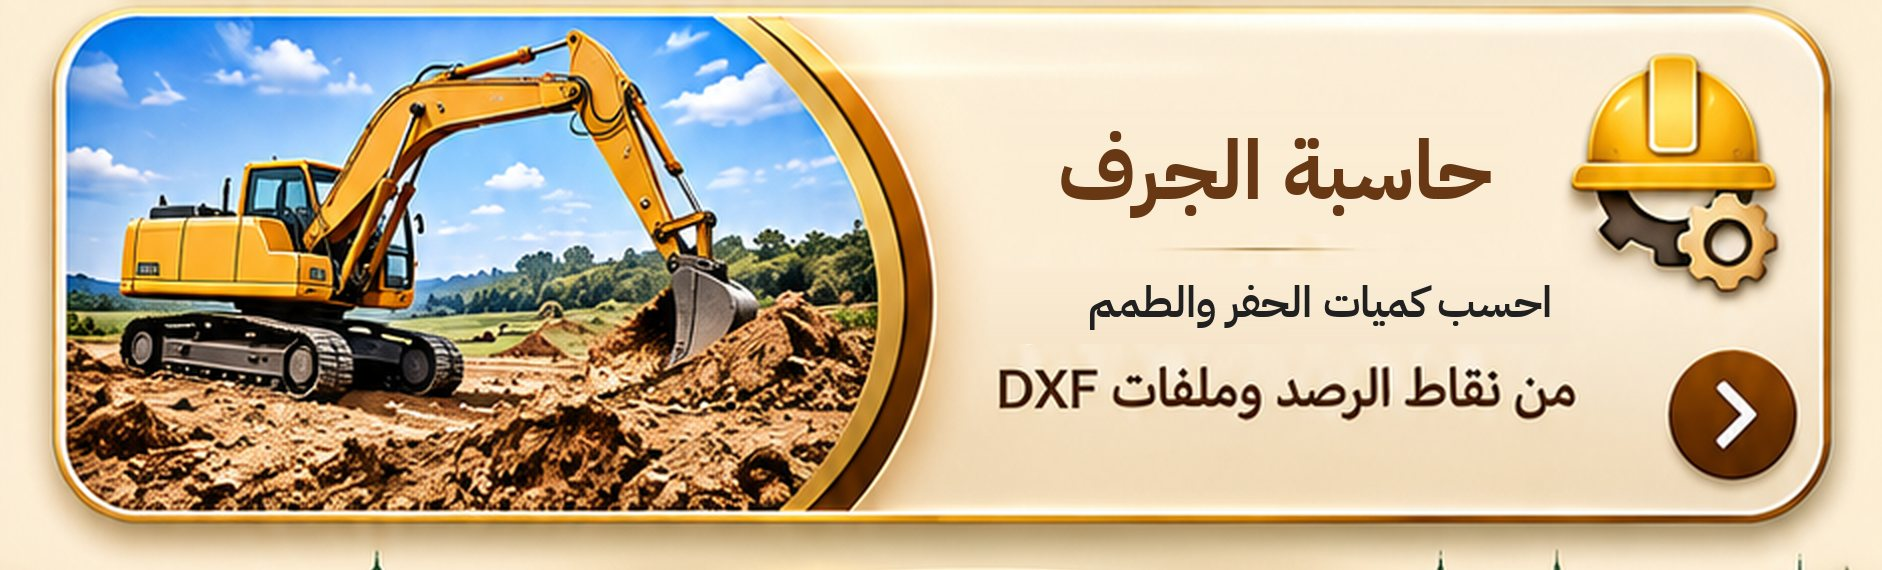
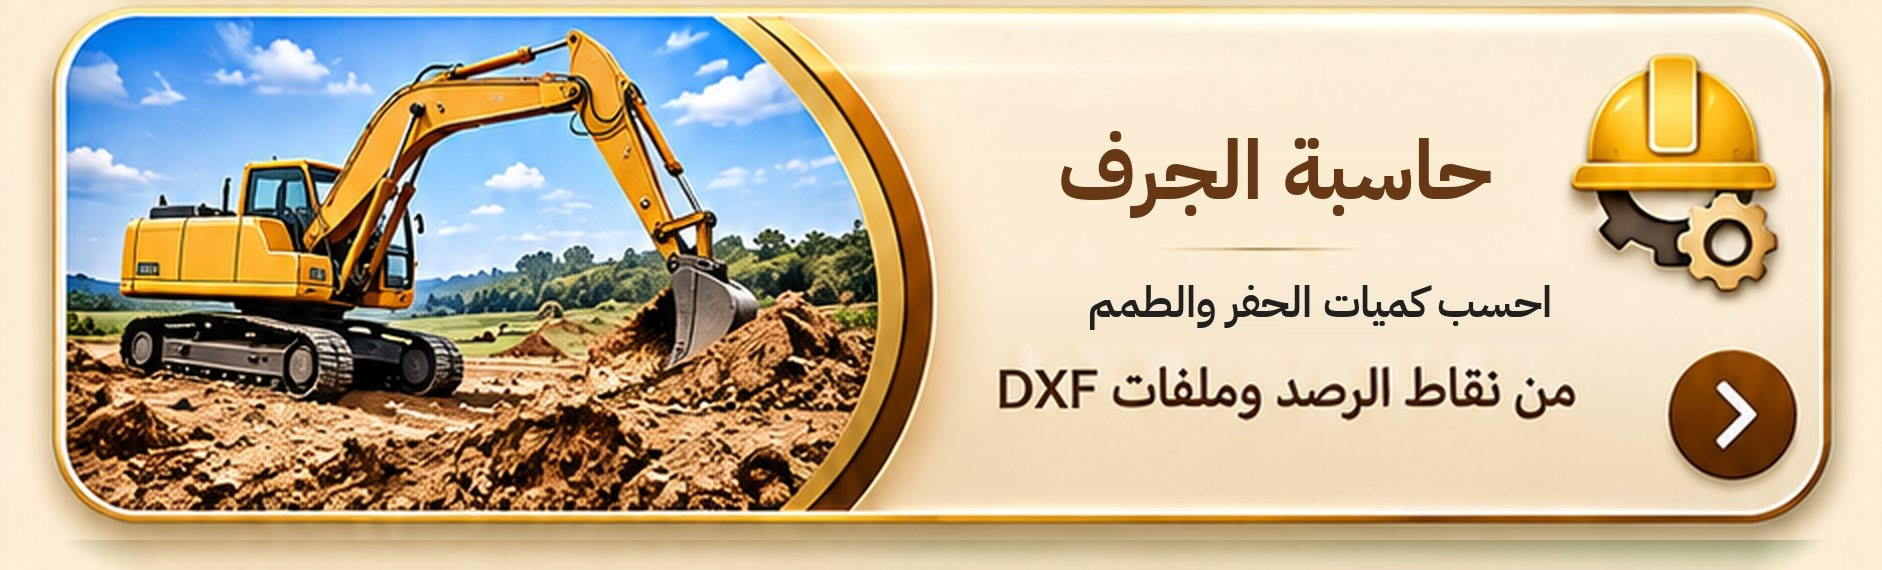
Add GovMap coordinates tool (ITM X/Y -> GovMap with blocks and Oslo layers)
Claude-Session: https://claude.ai/code/session_01AkLSPwRHM58vdM6rzVeHiX

Changed region(s): [[0.678, 0.9246, 0.9862, 1.0], [0.0616, 0.9246, 0.2465, 1.0]]

diff --git a/app/src/main/assets/govmap/index.html b/app/src/main/assets/govmap/index.html
@@ -1,0 +1,159 @@
+<!doctype html>
+<html lang="ar" dir="rtl" data-tool="govmap">
+<head>
+<meta charset="utf-8">
+<meta name="viewport" content="width=device-width,initial-scale=1,viewport-fit=cover">
+<title>إحداثيات GovMap</title>
+<link rel="stylesheet" href="../ifraz/fonts.css">
+<link rel="stylesheet" href="../theme.css">
+<style>
+*{box-sizing:border-box}
+body{margin:0;font:16px/1.6 "IBM Plex Sans Arabic",Tahoma,sans-serif}
+main{max-width:560px;margin:0 auto;padding:14px 16px 40px}
+h1{font:700 30px/1.3 var(--am-title);color:var(--am-green-800);margin:8px 0 2px}
+.lead{color:var(--am-muted);margin:0 0 14px;font-size:15px}
+.card{background:var(--am-card);border:1.5px solid var(--am-line);border-radius:18px;padding:16px;box-shadow:0 10px 22px -16px rgba(8,42,27,.5),inset 0 1px 0 #fff;margin-bottom:14px}
+.xy{display:grid;grid-template-columns:1fr 1fr;gap:12px}
+label.f{display:flex;flex-direction:column;gap:6px;font-weight:700;color:var(--am-green-800);font-size:15px}
+label.f small{font-weight:500;color:var(--am-muted)}
+input,select{font:500 20px "IBM Plex Mono","IBM Plex Sans Arabic",monospace;padding:12px 12px;border:1.5px solid var(--am-line);border-radius:14px;background:#fffdf6;color:var(--am-ink);width:100%;min-width:0}
+select,.set input{font:500 16px "IBM Plex Sans Arabic",Tahoma,sans-serif}
+input:focus,select:focus{outline:2px solid var(--am-gold-500);outline-offset:1px}
+input[dir=ltr]{text-align:left}
+.go{display:block;width:100%;margin-top:16px;border:0;border-radius:999px;padding:14px;font:700 20px "IBM Plex Sans Arabic",Tahoma,sans-serif;color:#fff;background:var(--am-btn);box-shadow:0 0 0 1.5px var(--am-gold-400),0 8px 16px -8px rgba(8,42,27,.7);cursor:pointer}
+.go:active{transform:scale(.98)}
+.row{display:flex;gap:8px;margin-top:10px;flex-wrap:wrap}
+.sm{flex:1;border:1.5px solid var(--am-gold-500);border-radius:999px;padding:9px 12px;background:#fffaf0;color:var(--am-green-800);font:700 14px "IBM Plex Sans Arabic",Tahoma,sans-serif;cursor:pointer;white-space:nowrap}
+.msg{margin:10px 0 0;padding:8px 12px;border-radius:12px;font-size:14px;display:none}
+.msg.on{display:block}.msg.warn{background:#fbf0d2;border:1px solid var(--am-gold-500);color:#7a4e00}.msg.ok{background:#e3efe2;border:1px solid #9cc5a5;color:#1e6b4a}
+details summary{cursor:pointer;font-weight:700;color:var(--am-green-800);list-style:none;display:flex;align-items:center;gap:8px}
+details summary::before{content:"◀";font-size:12px;transition:transform .15s}
+details[open] summary::before{transform:rotate(-90deg)}
+.set{display:grid;gap:12px;margin-top:12px}
+.set .two{display:grid;grid-template-columns:1fr 1fr;gap:12px}
+.seg{display:flex;border:1.5px solid var(--am-line);border-radius:999px;overflow:hidden}
+.seg label{flex:1;text-align:center;padding:9px 6px;font-weight:700;font-size:14px;cursor:pointer;color:var(--am-green-800)}
+.seg input{position:absolute;opacity:0;width:1px;height:1px}
+.seg label:has(input:checked){background:var(--am-btn);color:#fff}
+h2{font:700 18px var(--am-title);color:var(--am-green-800);margin:0 0 8px}
+.hist{display:flex;flex-direction:column;gap:8px}
+.h{display:flex;align-items:center;gap:8px;border:1px solid var(--am-line);border-radius:14px;background:#fffdf6;padding:6px 6px 6px 10px}
+.h button.use{flex:1;text-align:right;border:0;background:none;font:500 15px "IBM Plex Mono",monospace;color:var(--am-ink);cursor:pointer;direction:ltr;display:flex;justify-content:flex-end;gap:12px;padding:6px}
+.h .del{border:0;background:#f3ead2;color:#8a3b12;border-radius:50%;width:32px;height:32px;cursor:pointer;flex:none}
+.empty{color:var(--am-muted);font-size:14px;margin:0}
+.note{color:var(--am-muted);font-size:13px;margin:6px 0 0}
+</style>
+</head>
+<body>
+<div class="am-bar"><span class="am-title"><img src="../img/t-govmap.png" alt=""><b>إحداثيات GovMap</b></span><a class="am-home" href="../home.html"><svg viewBox="0 0 24 24" fill="currentColor" aria-hidden="true"><path d="M12 3 2.5 11h2.7v9.5h5.3v-6h3v6h5.3V11h2.7z"/></svg>الرئيسية</a></div>
+<div class="am-spacer" aria-hidden="true"></div>
+<main>
+  <h1>إحداثيات GovMap</h1>
+  <p class="lead">أدخل الإحداثيات بنظام ITM (الشبكة الإسرائيلية الجديدة)، ويفتح الموقع على GovMap مع حدود الأحواض ومناطق أوسلو.</p>
+
+  <section class="card">
+    <div class="xy">
+      <label class="f"><span>Y <small>(شمال)</small></span><input id="y" dir="ltr" inputmode="decimal" autocomplete="off" placeholder="677550"></label>
+      <label class="f"><span>X <small>(شرق)</small></span><input id="x" dir="ltr" inputmode="decimal" autocomplete="off" placeholder="199804"></label>
+    </div>
+    <button class="go" id="go" type="button">اعرض الموقع</button>
+    <div class="row">
+      <button class="sm" id="copy" type="button">نسخ الرابط</button>
+      <button class="sm" id="paste" type="button">لصق X,Y</button>
+      <button class="sm" id="clear" type="button">مسح</button>
+    </div>
+    <p class="msg" id="msg" role="status"></p>
+  </section>
+
+  <section class="card">
+    <details id="setBox">
+      <summary>الإعدادات</summary>
+      <div class="set">
+        <div class="two">
+          <label class="f"><span>مستوى التكبير <small>(0 بعيد – 10 قريب)</small></span><select id="z"></select></label>
+          <label class="f"><span>الخلفية <small>(b)</small></span><input id="b" dir="ltr" inputmode="numeric" value="1"></label>
+        </div>
+        <label class="f"><span>الطبقات <small>(الأحواض ومناطق أوسلو أ/ب/ج)</small></span><input id="lay" dir="ltr" value="189,188,181"></label>
+        <div><div class="f" style="margin-bottom:6px">افتح الخارطة</div>
+          <div class="seg"><label><input type="radio" name="open" value="app" checked>داخل التطبيق</label><label><input type="radio" name="open" value="ext">في المتصفح</label></div></div>
+        <button class="sm" id="reset" type="button">إرجاع الإعدادات الأصلية</button>
+      </div>
+    </details>
+  </section>
+
+  <section class="card">
+    <h2>آخر النقاط</h2>
+    <div class="hist" id="hist"></div>
+    <p class="note">اضغط على نقطة لإعادة عرضها. تُحفظ آخر 20 نقطة على هذا الجهاز.</p>
+  </section>
+</main>
+<script>
+const $ = s => document.querySelector(s);
+const KEY = "govmap-xy-v1", DEF = { z: 9, lay: "189,188,181", b: "1", open: "app" };
+const load = () => { try { return JSON.parse(localStorage.getItem(KEY) || "null") || {}; } catch (e) { return {}; } };
+const save = d => { try { localStorage.setItem(KEY, JSON.stringify(d)); } catch (e) {} };
+let st = Object.assign({ hist: [] }, DEF, load());
+for (let i = 0; i <= 10; i++) $("#z").insertAdjacentHTML("beforeend", `<option value="${i}">${i}</option>`);
+const toDigits = s => String(s || "").replace(/[٠-٩]/g, d => "٠١٢٣٤٥٦٧٨٩".indexOf(d)).replace(/[۰-۹]/g, d => "۰۱۲۳۴۵۶۷۸۹".indexOf(d)).replace(/٫/g, ".").replace(/[^\d.\-]/g, "");
+function applySettings() {
+  $("#z").value = st.z; $("#lay").value = st.lay; $("#b").value = st.b;
+  document.querySelectorAll('input[name=open]').forEach(r => r.checked = r.value === st.open);
+}
+function readSettings() {
+  st.z = +$("#z").value; st.lay = $("#lay").value.replace(/\s+/g, "") || DEF.lay; st.b = toDigits($("#b").value) || DEF.b;
+  st.open = (document.querySelector('input[name=open]:checked') || {}).value || "app"; save(st);
+}
+function msg(t, kind) { const m = $("#msg"); m.textContent = t || ""; m.className = "msg" + (t ? " on " + (kind || "warn") : ""); }
+function check() {
+  let x = parseFloat(toDigits($("#x").value)), y = parseFloat(toDigits($("#y").value));
+  if (!isFinite(x) || !isFinite(y)) { msg("أدخل قيمتي X و Y."); return null; }
+  const okX = v => v >= 100000 && v <= 300000, okY = v => v >= 350000 && v <= 820000;
+  if (!okX(x) && !okY(y) && okX(y) && okY(x)) { [x, y] = [y, x]; $("#x").value = x; $("#y").value = y; msg("بدّلت X و Y لأن القيمتين كانتا معكوستين.", "ok"); }
+  else if (okX(x) && y >= 50000 && y < 350000) { msg("قيمة Y تبدو بنظام فلسطين القديم وليست ITM. تحقق من النظام قبل الاعتماد على الموقع."); }
+  else if (!okX(x) || !okY(y)) { msg("الإحداثيات خارج نطاق ITM المعتاد (X من 100000 إلى 300000، Y من 350000 إلى 820000). تحقق منها."); }
+  else msg("");
+  return { x: Math.round(x * 100) / 100, y: Math.round(y * 100) / 100 };
+}
+const url = p => `https://www.govmap.gov.il/?c=${p.x},${p.y}&z=${st.z}&lay=${st.lay}&b=${st.b}`;
+function remember(p) {
+  st.hist = [{ x: p.x, y: p.y, t: Date.now() }, ...st.hist.filter(h => !(h.x === p.x && h.y === p.y))].slice(0, 20);
+  save(st); renderHist();
+}
+function renderHist() {
+  $("#hist").innerHTML = st.hist.length ? st.hist.map((h, i) => `<div class="h"><button class="use" type="button" data-i="${i}"><span>X ${h.x}</span><span>Y ${h.y}</span></button><button class="del" type="button" data-d="${i}" aria-label="حذف">✕</button></div>`).join("") : '<p class="empty">لا توجد نقاط بعد.</p>';
+}
+$("#hist").addEventListener("click", e => {
+  const u = e.target.closest("[data-i]"), d = e.target.closest("[data-d]");
+  if (d) { st.hist.splice(+d.dataset.d, 1); save(st); renderHist(); return; }
+  if (u) { const h = st.hist[+u.dataset.i]; $("#x").value = h.x; $("#y").value = h.y; msg(""); scrollTo({ top: 0, behavior: "smooth" }); }
+});
+$("#go").addEventListener("click", () => {
+  readSettings(); const p = check(); if (!p) return; remember(p);
+  const u = url(p), ext = st.open === "ext";
+  if (window.AndroidBridge && AndroidBridge.openMap) AndroidBridge.openMap(u, ext);
+  else window.open(u, "_blank", "noopener");
+});
+$("#copy").addEventListener("click", async () => {
+  readSettings(); const p = check(); if (!p) return; const u = url(p);
+  try { if (window.AndroidBridge && AndroidBridge.copy) AndroidBridge.copy(u); else await navigator.clipboard.writeText(u); msg("نسخت الرابط.", "ok"); } catch (e) { msg(u, "ok"); }
+});
+function splitPair(t) {
+  const nums = String(t).replace(/[٠-٩]/g, d => "٠١٢٣٤٥٦٧٨٩".indexOf(d)).match(/-?\d+(?:[.٫]\d+)?/g) || [];
+  return nums.length >= 2 ? nums.slice(0, 2).map(v => v.replace("٫", ".")) : null;
+}
+function fillPair(t) { const p = splitPair(t); if (!p) return false; $("#x").value = p[0]; $("#y").value = p[1]; check(); return true; }
+["#x", "#y"].forEach(s => $(s).addEventListener("paste", e => { const t = (e.clipboardData || {}).getData ? e.clipboardData.getData("text") : ""; if (t && fillPair(t)) e.preventDefault(); }));
+$("#paste").addEventListener("click", async () => {
+  try { const t = await navigator.clipboard.readText(); if (!fillPair(t)) msg("لم أجد رقمين في الحافظة. الصيغة: X,Y"); }
+  catch (e) { msg("الصق النص في خانة X مباشرة (X,Y) وسأفصله تلقائياً."); }
+});
+$("#clear").addEventListener("click", () => { $("#x").value = ""; $("#y").value = ""; msg(""); $("#y").focus(); });
+$("#reset").addEventListener("click", () => { Object.assign(st, DEF); save(st); applySettings(); msg("أرجعت الإعدادات الأصلية.", "ok"); });
+["#z", "#lay", "#b"].forEach(s => $(s).addEventListener("change", readSettings));
+document.querySelectorAll('input[name=open]').forEach(r => r.addEventListener("change", readSettings));
+[$("#y"), $("#x")].forEach(i => i.addEventListener("keydown", e => { if (e.key === "Enter") { e.preventDefault(); i === $("#y") ? $("#x").focus() : $("#go").click(); } }));
+applySettings(); renderHist();
+if (st.hist[0]) { $("#x").value = st.hist[0].x; $("#y").value = st.hist[0].y; }
+</script>
+</body>
+</html>

diff --git a/app/src/main/assets/home.html b/app/src/main/assets/home.html
@@ -73,6 +73,10 @@ body.open .sheet-bg{opacity:1;pointer-events:auto}
   <div class="ui"><img src="img/ui-p4.jpg" alt="">
     <a class="hit" href="jarf/index.html" aria-label="حاسبة الجرف" style="left:3.19%;top:0.70%;width:94.05%;height:90.88%"></a>
   </div>
+  <div class="gap" style="background-image:url(img/ui-g3.png)"></div>
+  <div class="ui"><img src="img/ui-p5.jpg" alt="">
+    <a class="hit" href="govmap/index.html" aria-label="إحداثيات GovMap" style="left:3.19%;top:0.70%;width:94.05%;height:90.88%"></a>
+  </div>
   <img class="sky" src="img/ui-sky.jpg" alt="دقة .. احترافية .. لنتائج أفضل">
   <div class="fill"></div>
   <div class="spacer"></div>
@@ -130,7 +134,7 @@ body.open .sheet-bg{opacity:1;pointer-events:auto}
   <h3 id="t-about">حول التطبيق</h3>
   <div class="about">
     <b style="font:700 22px var(--f-title);color:var(--green-2)">المساح إسلام</b><br>
-    حاسب الكواشين · الإفراز · حاسبة الجرف<br>
+    حاسب الكواشين · الإفراز · حاسبة الجرف · إحداثيات GovMap<br>
     صاحب ومطور التطبيق: <b>إسلام إسماعيل دويكات</b><br>
     <span class="phone">0598161862</span><br>
     <span id="ver2" style="color:var(--muted)"></span><br>
@@ -162,6 +166,9 @@ function projects() {
   const fz = read("ifraz-v1");
   if (fz && Array.isArray(fz.boundary) && fz.boundary.length > 2 && !fz.sample)
     out.push({ key: "ifraz-v1", img: "img/c-ifraz.jpg", href: "ifraz/index.html", title: fz.landTitle || "قطعة للإفراز", sub: "الإفراز · " + fmt(area(fz.boundary)) + " م² · " + (fz.owners || []).length + " مالك" });
+  const gm = read("govmap-xy-v1");
+  if (gm && Array.isArray(gm.hist) && gm.hist.length)
+    out.push({ key: "govmap-xy-v1", img: "img/c-govmap.jpg", href: "govmap/index.html", title: "إحداثيات " + gm.hist[0].x + " , " + gm.hist[0].y, sub: "إحداثيات GovMap · " + gm.hist.length + " نقطة محفوظة" });
   return out;
 }
 function renderProjects() {

diff --git a/app/src/main/java/ps/islam/hisas/MapActivity.java b/app/src/main/java/ps/islam/hisas/MapActivity.java
@@ -1,0 +1,128 @@
+package ps.islam.hisas;
+
+import android.app.Activity;
+import android.content.Intent;
+import android.graphics.Color;
+import android.graphics.drawable.GradientDrawable;
+import android.net.Uri;
+import android.os.Bundle;
+import android.util.TypedValue;
+import android.view.Gravity;
+import android.view.View;
+import android.webkit.WebChromeClient;
+import android.webkit.WebResourceRequest;
+import android.webkit.WebSettings;
+import android.webkit.WebView;
+import android.webkit.WebViewClient;
+import android.widget.FrameLayout;
+import android.widget.LinearLayout;
+import android.widget.ProgressBar;
+import android.widget.TextView;
+
+/** Shows GovMap inside the app, in its own WebView (no AndroidBridge exposed to the site). */
+public class MapActivity extends Activity {
+    private WebView web;
+    private String startUrl;
+
+    static boolean isGovmap(Uri u) {
+        String h = u == null ? null : u.getHost();
+        return h != null && (h.equals("govmap.gov.il") || h.endsWith(".govmap.gov.il"));
+    }
+
+    private int dp(float v) { return (int) TypedValue.applyDimension(TypedValue.COMPLEX_UNIT_DIP, v, getResources().getDisplayMetrics()); }
+
+    private TextView pill(String text, View.OnClickListener l) {
+        TextView b = new TextView(this);
+        b.setText(text);
+        b.setTextColor(Color.parseColor("#4a2e00"));
+        b.setTextSize(TypedValue.COMPLEX_UNIT_SP, 14);
+        b.setTypeface(android.graphics.Typeface.DEFAULT_BOLD);
+        b.setPadding(dp(14), dp(8), dp(14), dp(8));
+        GradientDrawable bg = new GradientDrawable(GradientDrawable.Orientation.TOP_BOTTOM, new int[]{Color.parseColor("#fff1b8"), Color.parseColor("#e6c35f")});
+        bg.setCornerRadius(dp(999));
+        bg.setStroke(dp(1.5f), Color.parseColor("#0c3b26"));
+        b.setBackground(bg);
+        b.setElevation(dp(4));
+        b.setOnClickListener(l);
+        LinearLayout.LayoutParams lp = new LinearLayout.LayoutParams(-2, -2);
+        lp.setMarginStart(dp(6));
+        b.setLayoutParams(lp);
+        return b;
+    }
+
+    @Override
+    protected void onCreate(Bundle savedInstanceState) {
+        super.onCreate(savedInstanceState);
+        startUrl = getIntent().getDataString();
+        if (startUrl == null) { finish(); return; }
+
+        FrameLayout root = new FrameLayout(this);
+        web = new WebView(this);
+        root.addView(web, new FrameLayout.LayoutParams(-1, -1));
+
+        final ProgressBar bar = new ProgressBar(this, null, android.R.attr.progressBarStyleHorizontal);
+        bar.setMax(100);
+        root.addView(bar, new FrameLayout.LayoutParams(-1, dp(4), Gravity.TOP));
+
+        LinearLayout tools = new LinearLayout(this);
+        tools.setOrientation(LinearLayout.HORIZONTAL);
+        tools.addView(pill("✕ رجوع", v -> finish()));
+        tools.addView(pill("↺ النقطة", v -> web.loadUrl(startUrl)));
+        tools.addView(pill("المتصفح", v -> {
+            try { startActivity(new Intent(Intent.ACTION_VIEW, Uri.parse(web.getUrl() != null ? web.getUrl() : startUrl))); } catch (Exception ignored) { }
+        }));
+        FrameLayout.LayoutParams tp = new FrameLayout.LayoutParams(-2, -2, Gravity.BOTTOM | Gravity.CENTER_HORIZONTAL);
+        tp.bottomMargin = dp(18);
+        root.addView(tools, tp);
+        setContentView(root);
+
+        WebSettings s = web.getSettings();
+        s.setJavaScriptEnabled(true);
+        s.setDomStorageEnabled(true);
+        s.setDatabaseEnabled(true);
+        s.setUseWideViewPort(true);
+        s.setLoadWithOverviewMode(true);
+        s.setBuiltInZoomControls(false);
+        s.setAllowFileAccess(false);
+
+        web.setWebViewClient(new WebViewClient() {
+            @Override
+            public boolean shouldOverrideUrlLoading(WebView view, WebResourceRequest request) {
+                Uri u = request.getUrl();
+                if (isGovmap(u)) return false;
+                String sc = u.getScheme();
+                if ("https".equals(sc) || "http".equals(sc)) {
+                    try { startActivity(new Intent(Intent.ACTION_VIEW, u)); } catch (Exception ignored) { }
+                    return true;
+                }
+                return true;
+            }
+        });
+        web.setWebChromeClient(new WebChromeClient() {
+            @Override
+            public void onProgressChanged(WebView view, int p) {
+                bar.setProgress(p);
+                bar.setVisibility(p >= 100 ? View.GONE : View.VISIBLE);
+            }
+        });
+        if (savedInstanceState != null) web.restoreState(savedInstanceState);
+        else web.loadUrl(startUrl);
+    }
+
+    @Override
+    protected void onSaveInstanceState(Bundle outState) {
+        super.onSaveInstanceState(outState);
+        if (web != null) web.saveState(outState);
+    }
+
+    @Override
+    public void onBackPressed() {
+        if (web != null && web.canGoBack()) web.goBack(); else finish();
+    }
+
+    @Override
+    protected void onDestroy() {
+        if (web != null) { web.stopLoading(); web.destroy(); }
+        super.onDestroy();
+    }
+}

diff --git a/app/src/main/java/ps/islam/hisas/MainActivity.java b/app/src/main/java/ps/islam/hisas/MainActivity.java
@@ -103,6 +103,7 @@ public class MainActivity extends Activity {
             public boolean shouldOverrideUrlLoading(WebView view, WebResourceRequest request) {
                 Uri u = request.getUrl();
                 if ("appassets.androidplatform.net".equals(u.getHost())) return false;
+                if (MapActivity.isGovmap(u)) { openMapActivity(u.toString()); return true; }
                 try { startActivity(new Intent(Intent.ACTION_VIEW, u)); } catch (Exception ignored) { }
                 return true;
             }
@@ -469,6 +470,16 @@ public class MainActivity extends Activity {
         }
 
         @JavascriptInterface
+        public void openMap(final String url, final boolean external) {
+            runOnUiThread(() -> {
+                Uri u = Uri.parse(url);
+                if (!MapActivity.isGovmap(u)) return;
+                if (external) { try { startActivity(new Intent(Intent.ACTION_VIEW, u)); } catch (Exception ignored) { } }
+                else openMapActivity(url);
+            });
+        }
+
+        @JavascriptInterface
         public void jsReady() {
             runOnUiThread(() -> {
                 pageReady = true;
@@ -525,6 +536,12 @@ public class MainActivity extends Activity {
                 toast("تعذّر حفظ الملف");
             }
         }
+    }
+
+    private void openMapActivity(String url) {
+        Intent i = new Intent(this, MapActivity.class);
+        i.setData(Uri.parse(url));
+        startActivity(i);
     }
 
     /* ---------- lifecycle ---------- */
